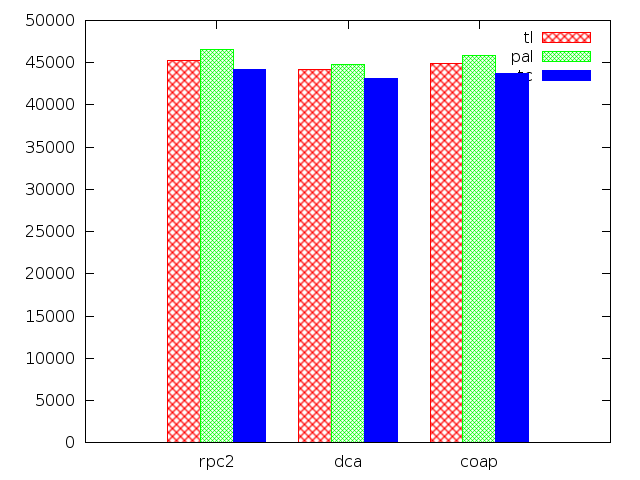
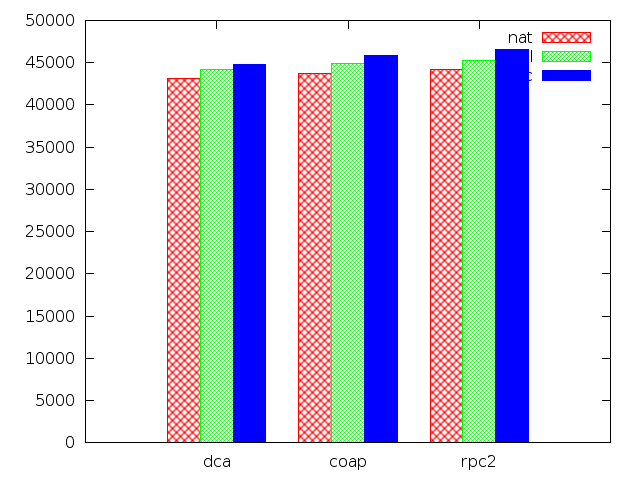
unifiying plots

diff --git a/applications/contiki/plots/cpu.py b/applications/contiki/plots/cpu.py
@@ -1,5 +1,4 @@
 import gnuplot
-import StringIO
 import os
 
 script = """
@@ -16,15 +15,16 @@ set yrange [0:*]
 plot '%(infile)s' using 2:xtic(1) title col, '' using 3:xtic(1) title col, '' using 4:xtic(1) title col
 """
 
-def plot(values, (apps_, variants, measurements)):
+def plot(path, values, (apps_, variants_, measurements)):
     assert "cpu" in measurements
-    apps = ["rpc2", "dca", "coap"]
-    assert set(apps).issubset(set(apps_)), str(apps)
-    plotdata = StringIO.StringIO()
+    
+    apps = ["dca", "coap", "rpc2"]
+    assert set(apps).issubset(set(apps_)), str(apps_)
 
-    gnuplot.out(plotdata, ["app"] + list(variants))
-    for app in apps:
-        gnuplot.out(plotdata, [app] + [values[(app, variant, "cpu")] for variant in variants if variant != "pal"])
+    variants = ["nat", "tl", "tc"]
+    assert set(variants).issubset(set(variants_)), str(variants_)
 
-    config = {'outfile': os.path.join(os.environ["ROOT"], "applications", "contiki", "plots", "cpu")}
-    gnuplot.plot(script, config, plotdata.getvalue())
+    plotdata = gnuplot.grouped_boxes(values, apps, variants, "cpu")
+
+    config = {'outfile': os.path.join(path, "cpu")}
+    gnuplot.plot(script, config, plotdata)

diff --git a/applications/contiki/plots/rom.py b/applications/contiki/plots/rom.py
@@ -16,15 +16,16 @@ set yrange [0:*]
 plot '%(infile)s' using 2:xtic(1) title col, '' using 3:xtic(1) title col, '' using 4:xtic(1) title col
 """
 
-def plot(values, (apps_, variants, measurements)):
+def plot(path, values, (apps_, variants_, measurements)):
     assert "text" in measurements
-    apps = ["rpc2", "dca", "coap"]
-    assert set(apps).issubset(set(apps_)), str(apps)
-    plotdata = StringIO.StringIO()
+    
+    apps = ["dca", "coap", "rpc2"]
+    assert set(apps).issubset(set(apps_)), str(apps_)
 
-    gnuplot.out(plotdata, ["app"] + list(variants))
-    for app in apps:
-        gnuplot.out(plotdata, [app] + [values[(app, variant, "text")] for variant in variants if variant != "pal"])
+    variants = ["nat", "tl", "tc"]
+    assert set(variants).issubset(set(variants_)), str(variants_)
 
-    config = {'outfile': os.path.join(os.environ["ROOT"], "applications", "contiki", "plots", "rom")}
-    gnuplot.plot(script, config, plotdata.getvalue())
+    plotdata = gnuplot.grouped_boxes(values, apps, variants, "text")
+
+    config = {'outfile': os.path.join(path, "rom")}
+    gnuplot.plot(script, config, plotdata)

diff --git a/benchmark/gnuplot.py b/benchmark/gnuplot.py
@@ -1,6 +1,7 @@
 import subprocess
 import tempfile
 import os
+import StringIO
 
 class Tmpfile(object):
     def __init__(self):
@@ -18,6 +19,15 @@ class Tmpfile(object):
 
 def out(f, row):
     f.write("\t".join(map(lambda x: str(x), row)) + "\n")
+
+def grouped_boxes(values, apps, variants, measurement):
+    plotdata = StringIO.StringIO()
+
+    out(plotdata, ["app"] + variants)
+    for app in apps:
+        out(plotdata, [app] + [values[(app, variant, measurement)] for variant in variants])
+
+    return plotdata.getvalue()
 
 def plot(script, config, data):
     datafile = Tmpfile()

diff --git a/applications/contiki/plots/ram.py b/applications/contiki/plots/ram.py
@@ -17,15 +17,5 @@ plot '%(infile)s' using 2:xtic(1) title col, '' using 3:xtic(1) title col, '' us
 """
 
 def plot(path, values, (apps_, variants_, measurements)):
-    assert "loc" in measurements
-    
-    apps = ["dca", "coap", "rpc2"]
-    assert set(apps).issubset(set(apps_)), str(apps_)
+    return
 
-    variants = ["nat", "tl", "tc"]
-    assert set(variants).issubset(set(variants_)), str(variants_)
-
-    plotdata = gnuplot.grouped_boxes(values, apps, variants, "loc")
-
-    config = {'outfile': os.path.join(path, "loc")}
-    gnuplot.plot(script, config, plotdata)

diff --git a/applications/contiki/plot.py b/applications/contiki/plot.py
@@ -20,4 +20,4 @@ data = text.import_all_properties(croot, "bench.results")
 
 for importer, name, ispkg in pkgutil.iter_modules(plots.__path__):
     module = __import__("plots." + name, fromlist=[name])
-    module.plot(*data)
+    module.plot(pjoin(croot, "plots"), *data)
